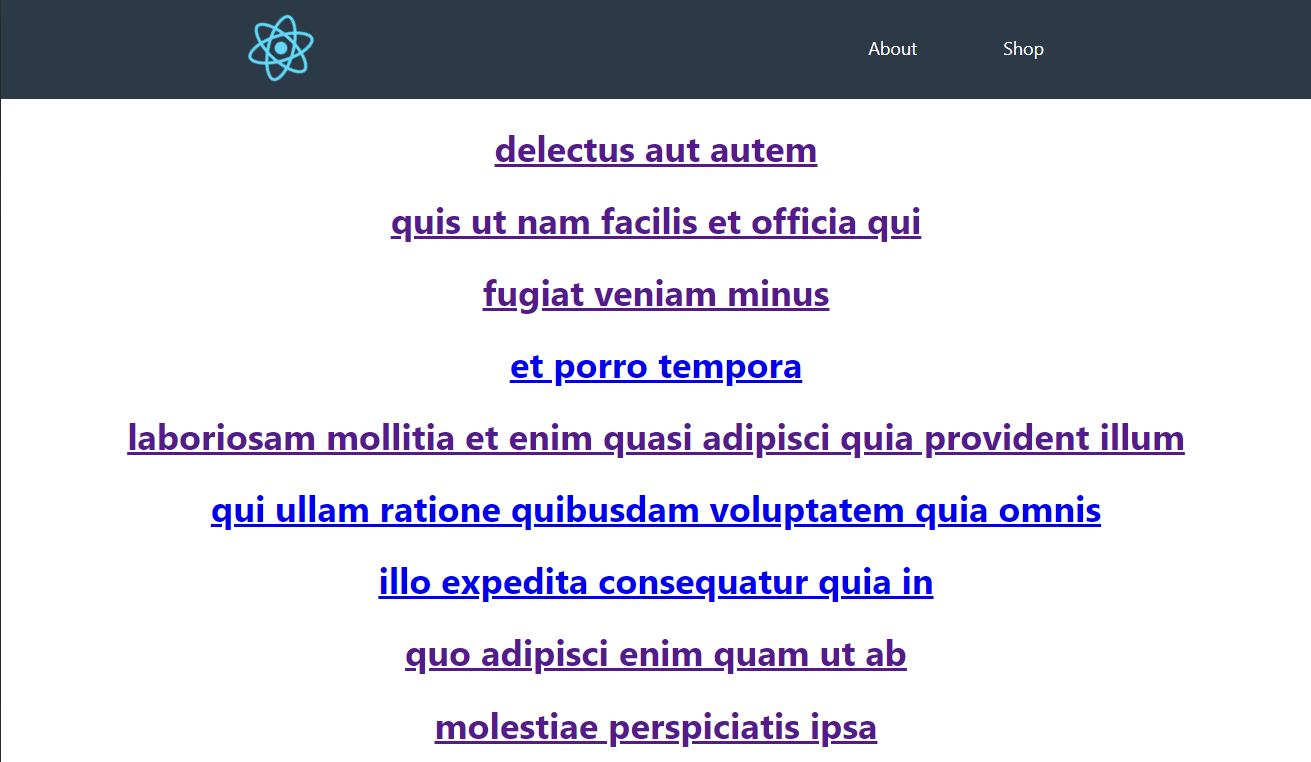
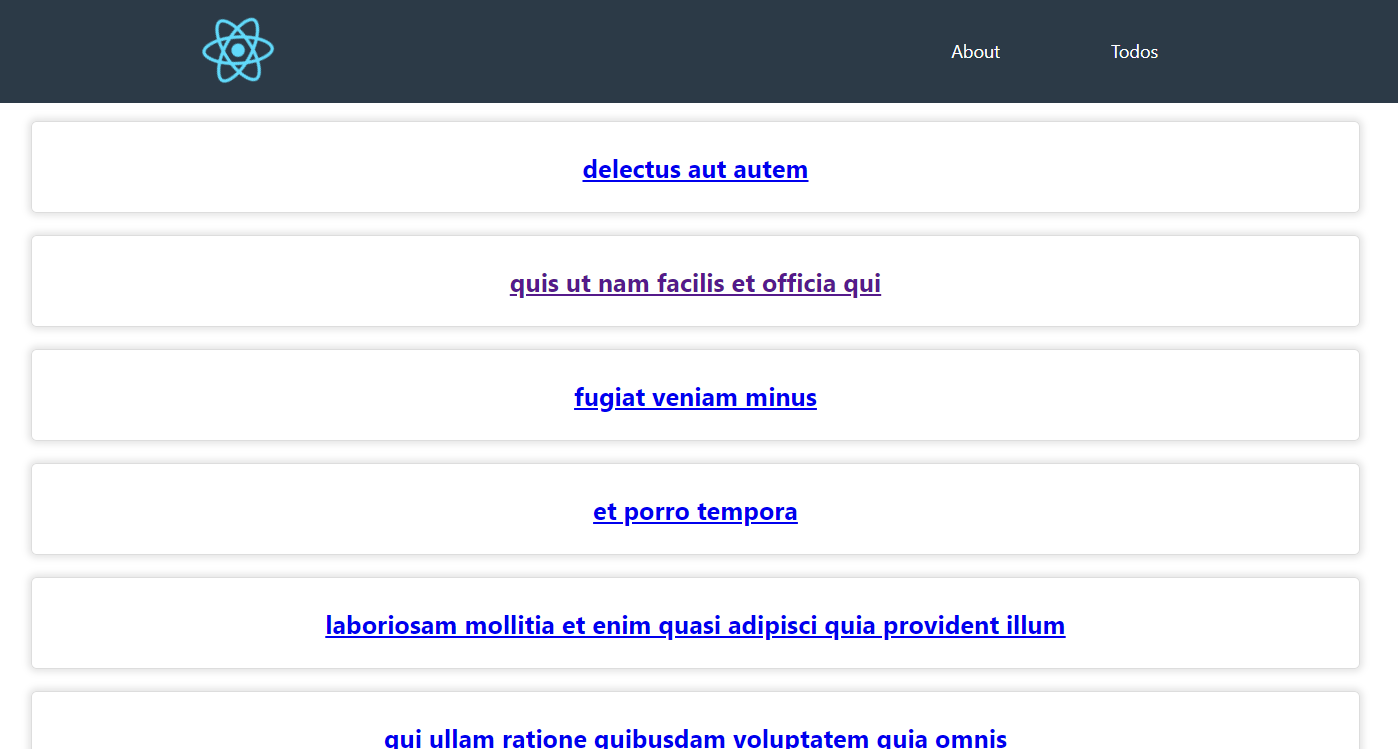
change route name

diff --git a/src/App.js b/src/App.js
@@ -2,7 +2,7 @@ import React from 'react';
 import './App.css';
 import Nav from './Nav';
 import About from './About';
-import Shop from './Shop';
+import Todos from './Todos';
 import ItemDetail from './ItemDetail';
 import { BrowserRouter as Router, Switch, Route } from 'react-router-dom';
 
@@ -14,8 +14,8 @@ function App() {
           <Switch>
             <Route path="/" exact component={Home}/>
             <Route path="/about" component={About}/>
-            <Route path="/shop" exact component={Shop}/>
-            <Route path="/shop/:id" component={ItemDetail}/>
+            <Route path="/todos" exact component={Todos}/>
+            <Route path="/todos/:id" component={ItemDetail}/>
           </Switch>
       </div>
     </Router>

diff --git a/src/Todos.js b/src/Todos.js
@@ -26,7 +26,7 @@ const ListItem = style.li`
 `;
 
 
-function Shop() {
+function Todos() {
 
     const [items, setItems] = useState([]);
 
@@ -40,11 +40,7 @@ function Shop() {
         fetchItems();       
     },
     // eslint-disable-next-line
-    []);
-
-
-
-    
+    []);    
 
 
   return (
@@ -52,7 +48,7 @@ function Shop() {
     <List> 
         {items.map((item, index) => (
            <ListItem key={item.id}>
-               <Link to={`/shop/${item.id}`}>{item.title}</Link>
+               <Link to={`/todos/${item.id}`}>{item.title}</Link>
            </ListItem>
        ))}
     </List>
@@ -60,4 +56,4 @@ function Shop() {
   );
 }
 
-export default Shop;
+export default Todos;

diff --git a/src/Nav.js b/src/Nav.js
@@ -11,8 +11,8 @@ function Nav() {
             <Link to='/about'>
                 <li>About</li>
             </Link>
-            <Link to='/shop'>
-                <li>Shop</li>
+            <Link to='/todos'>
+                <li>Todos</li>
             </Link>
         </ul>
     </nav>
